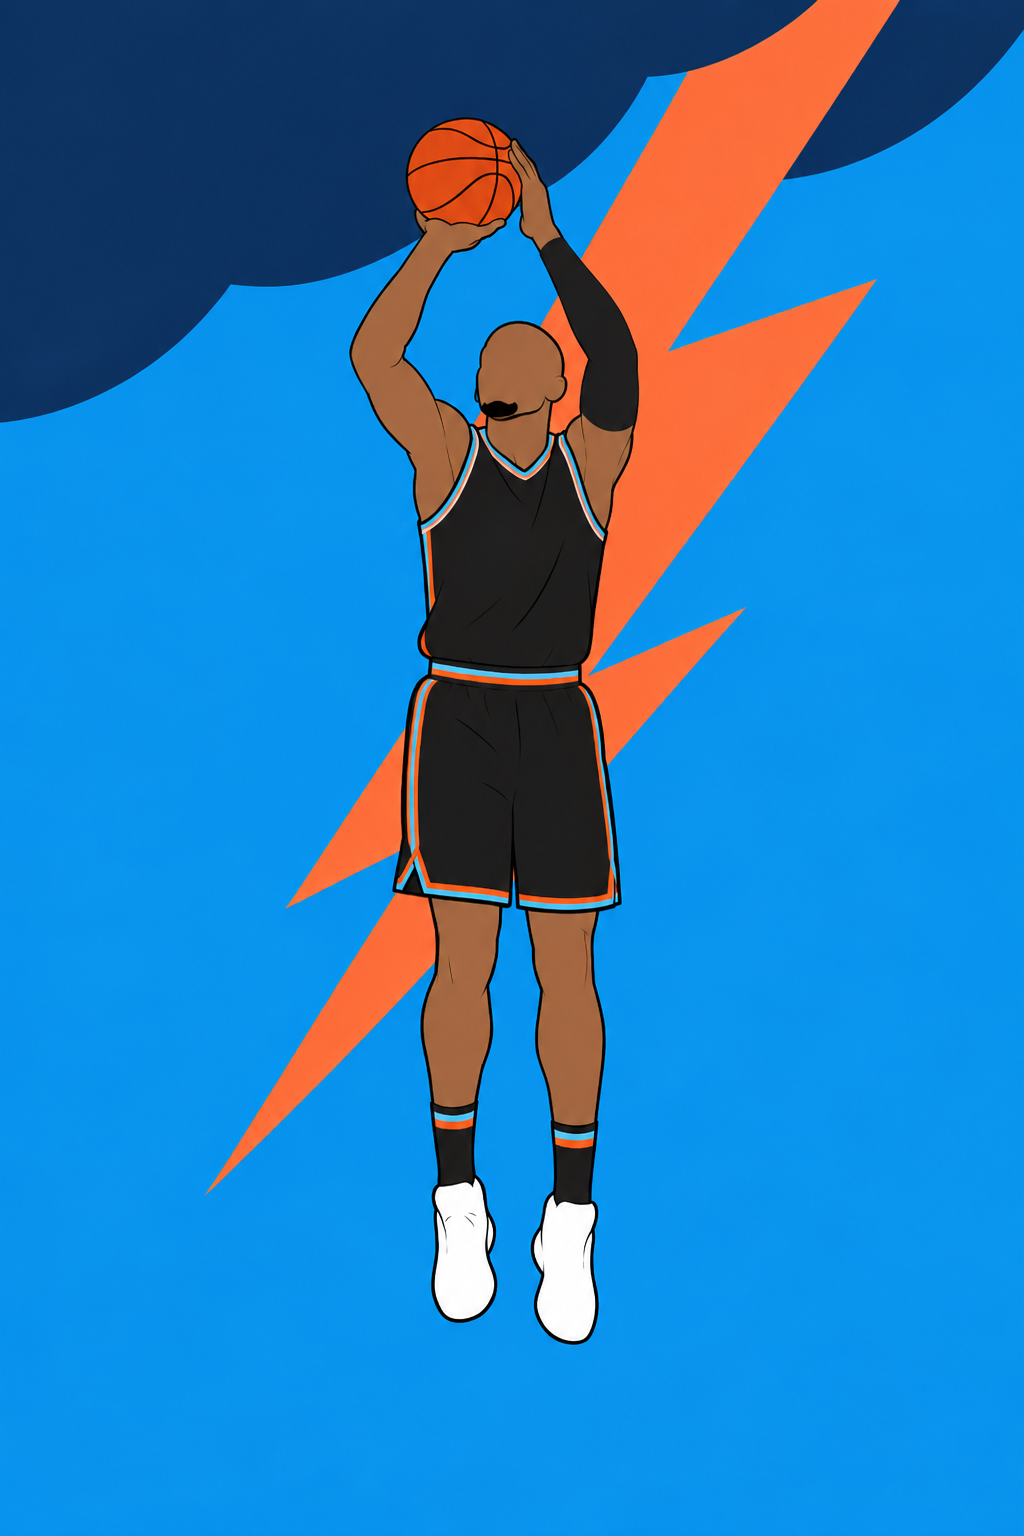
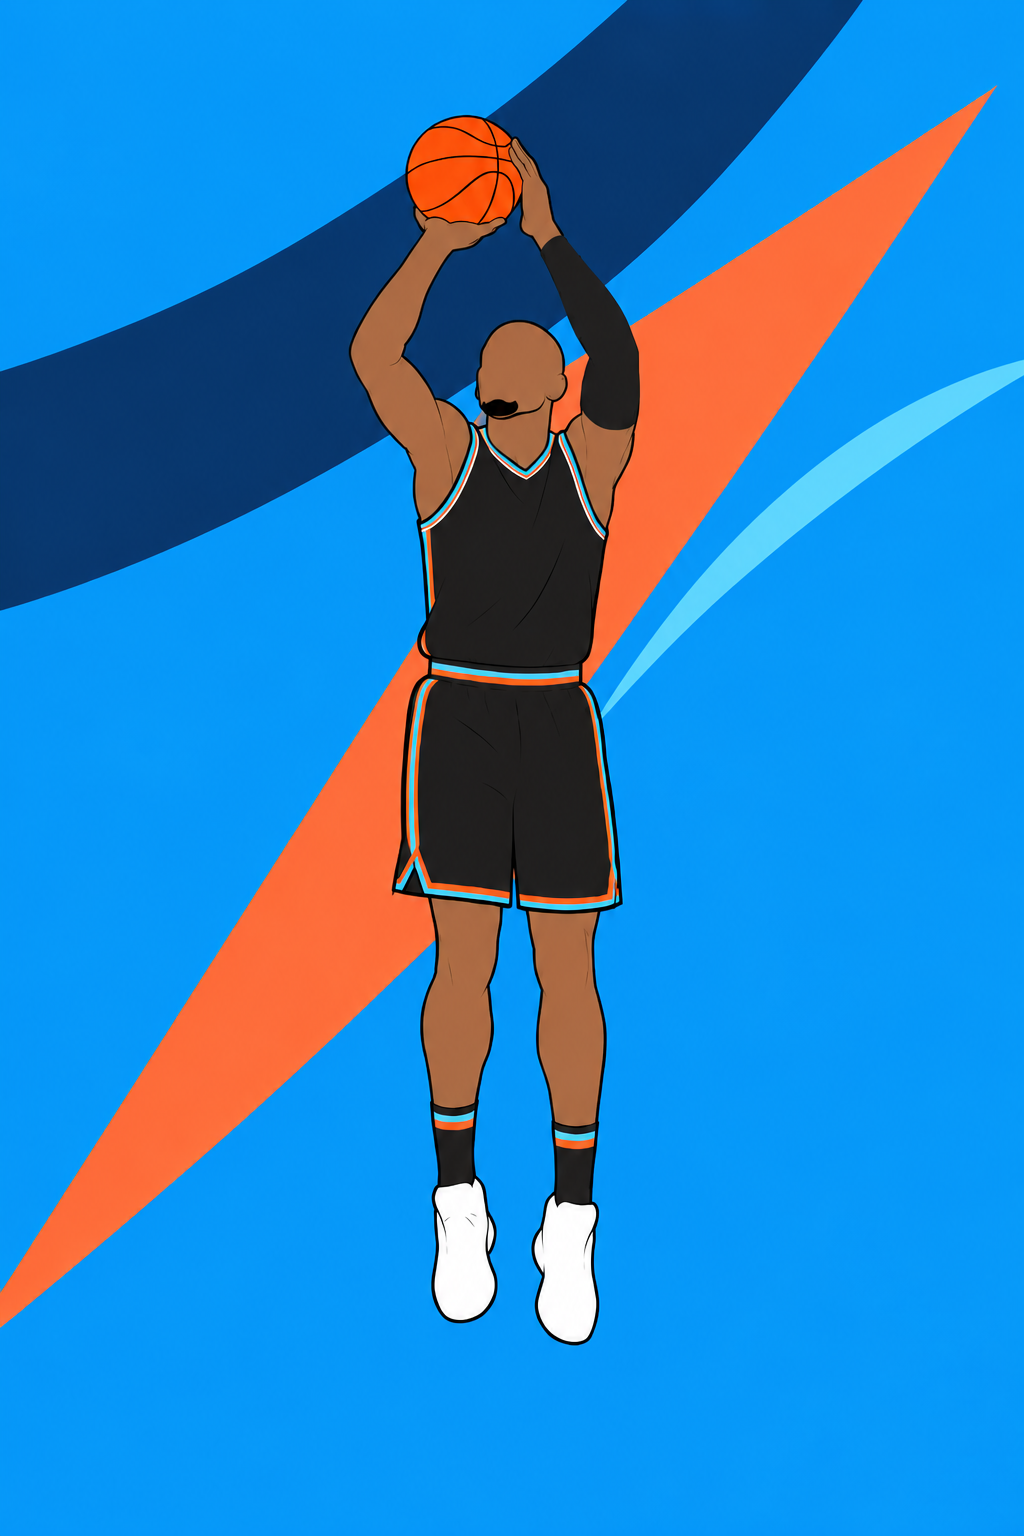
Publish 21 approved card artworks and enable player mappings

diff --git a/index.html b/index.html
@@ -5080,6 +5080,26 @@ const CARD_ART_BASE="cards/"; /* relative to the deployed site root (Vercel /pub
    CARD_ART.add("dwyane-wade"). Kept explicit so the game never fires a request
    (and never shows a broken image) for art that isn't there yet. */
 const CARD_ART=new Set([
+  "kareem-abdul-jabbar-lal",
+  "ray-allen-bos",
+  "wilt-chamberlain-phi",
+  "dennis-rodman-det",
+  "rajon-rondo-bos",
+  "ray-allen-mia",
+  "kyle-lowry-tor",
+  "richard-hamilton-det",
+  "bradley-beal-was",
+  "scottie-barnes-tor",
+  "zach-randolph-mem",
+  "andrei-kirilenko-uta",
+  "james-harden-cle",
+  "isaiah-thomas-bos",
+  "kemba-walker-cha",
+  "jerry-stackhouse-det",
+  "jaren-jackson-jr-uta",
+  "jalen-johnson-atl",
+  "ron-harper-lac",
+  "paul-george-lac",
   "marques-johnson-mil",
   "dan-issel-den",
   "bobby-jones-phi",
